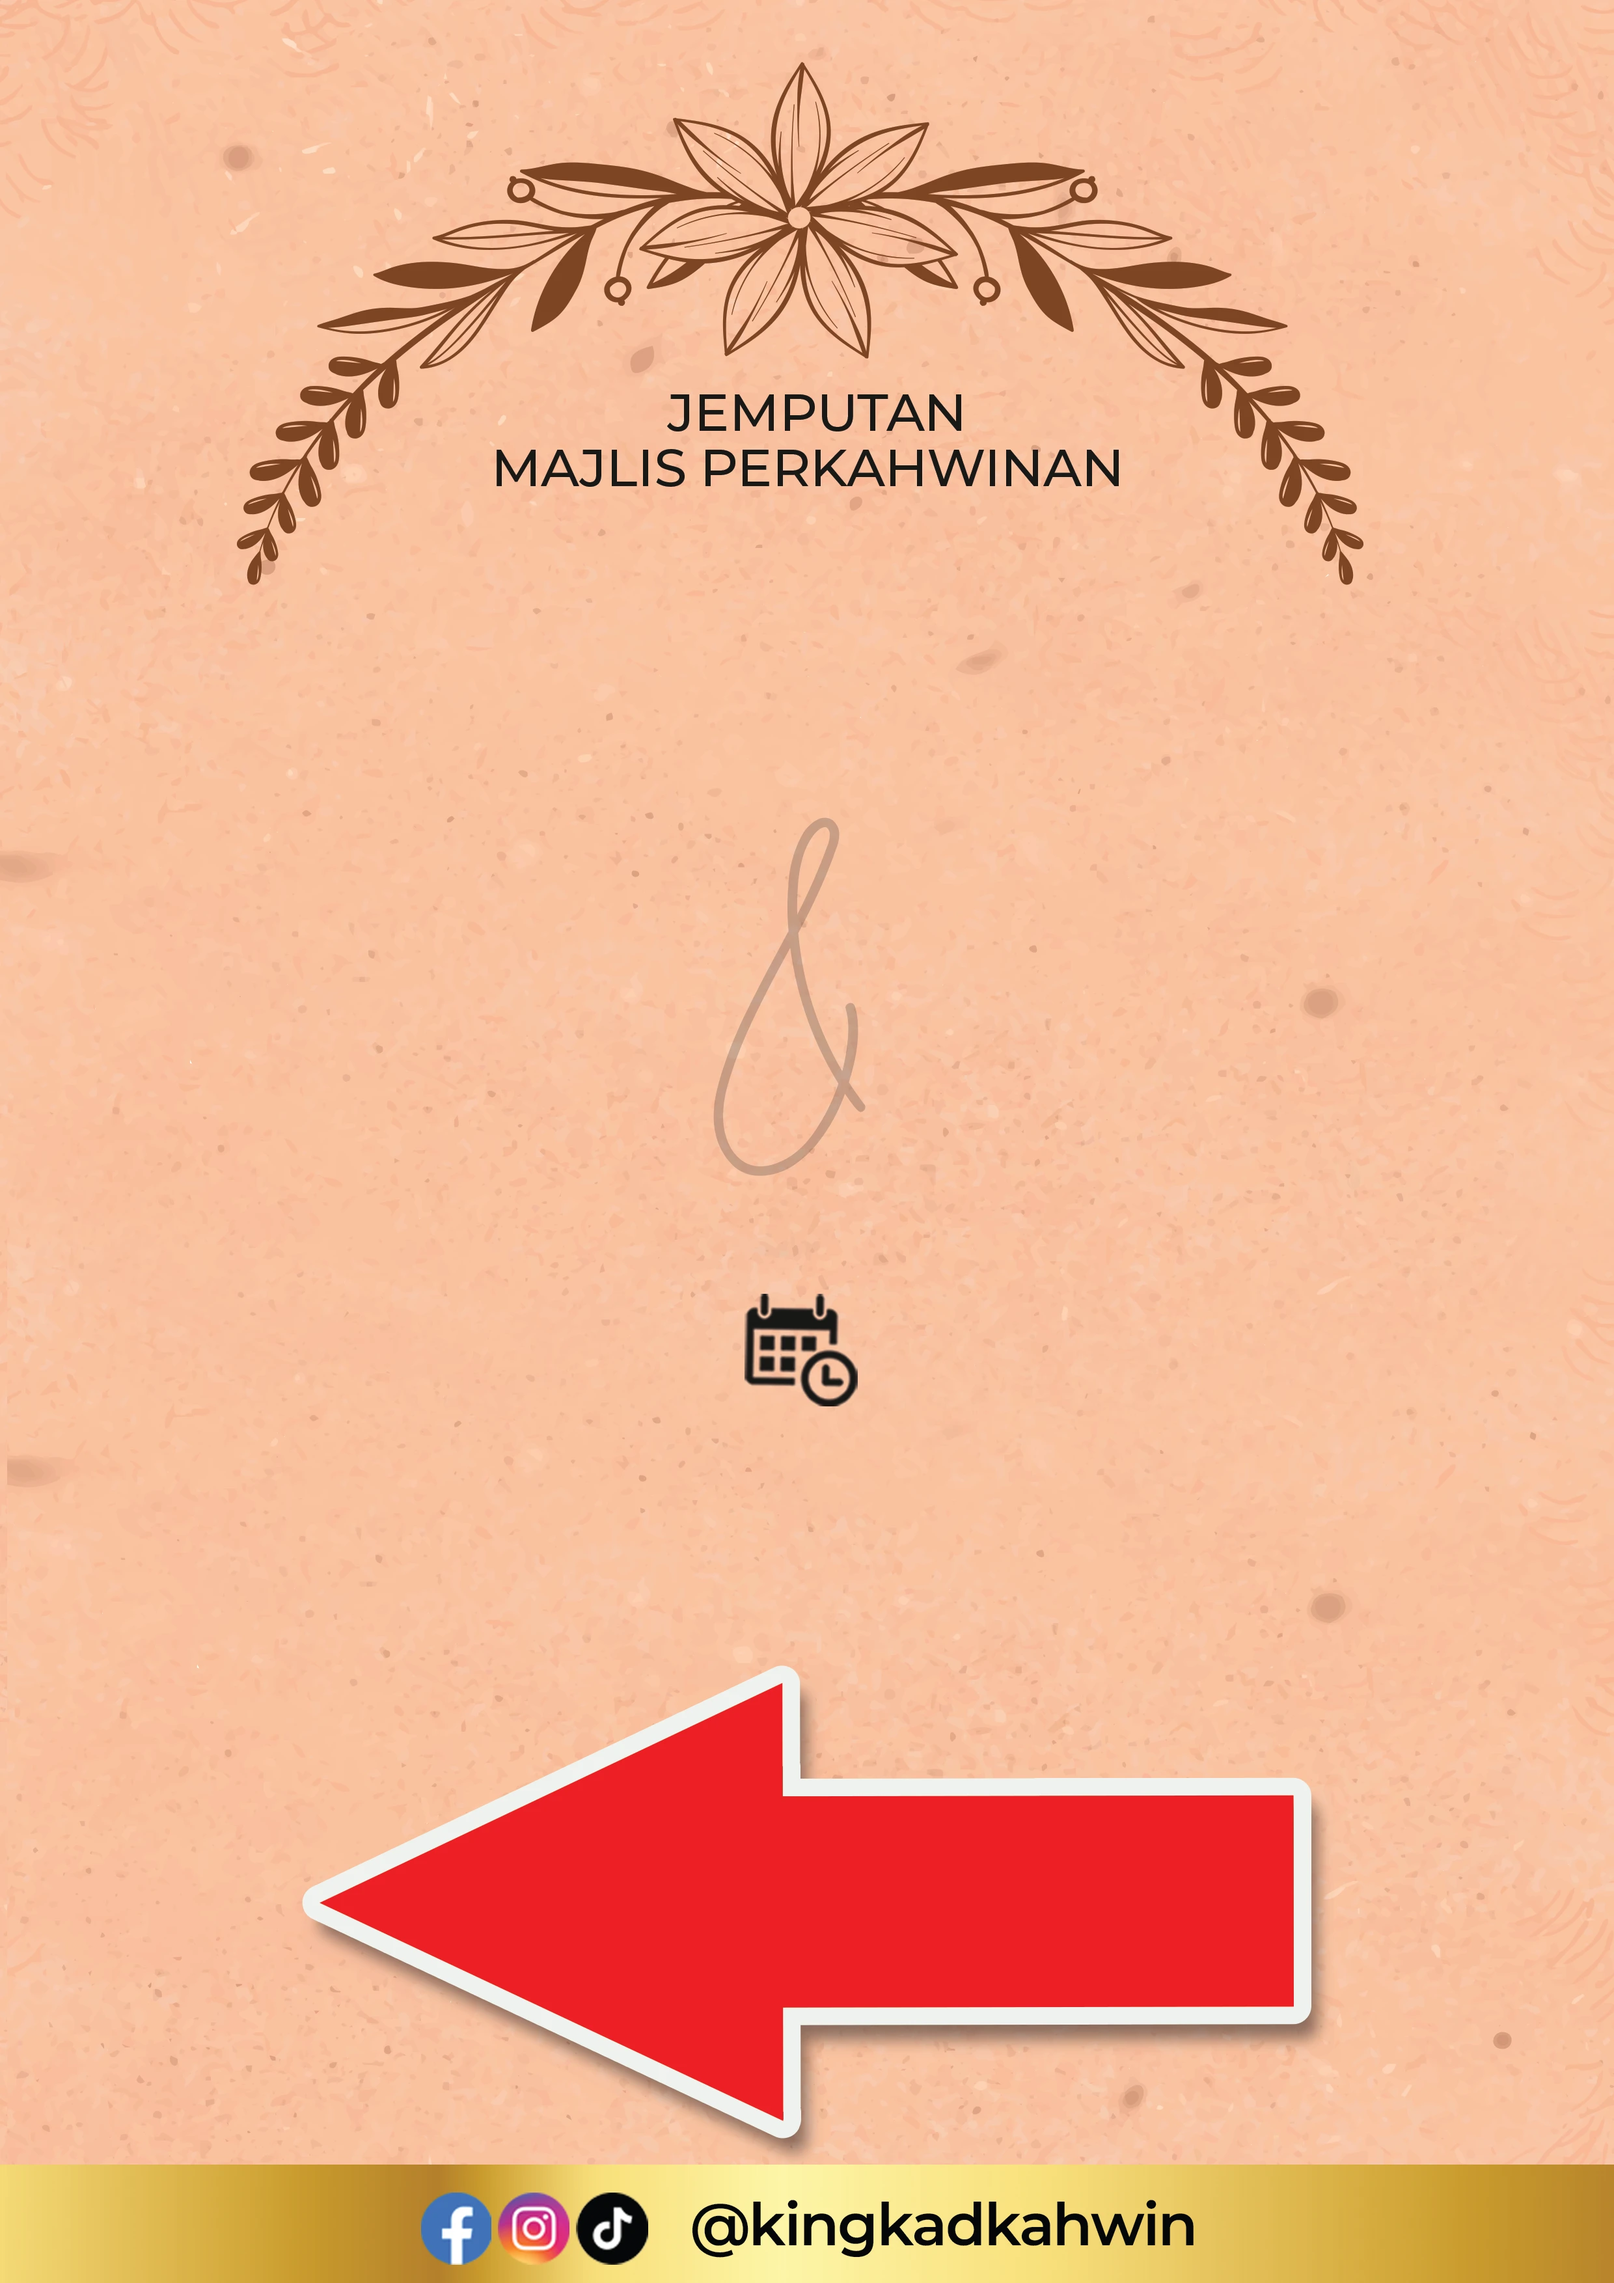
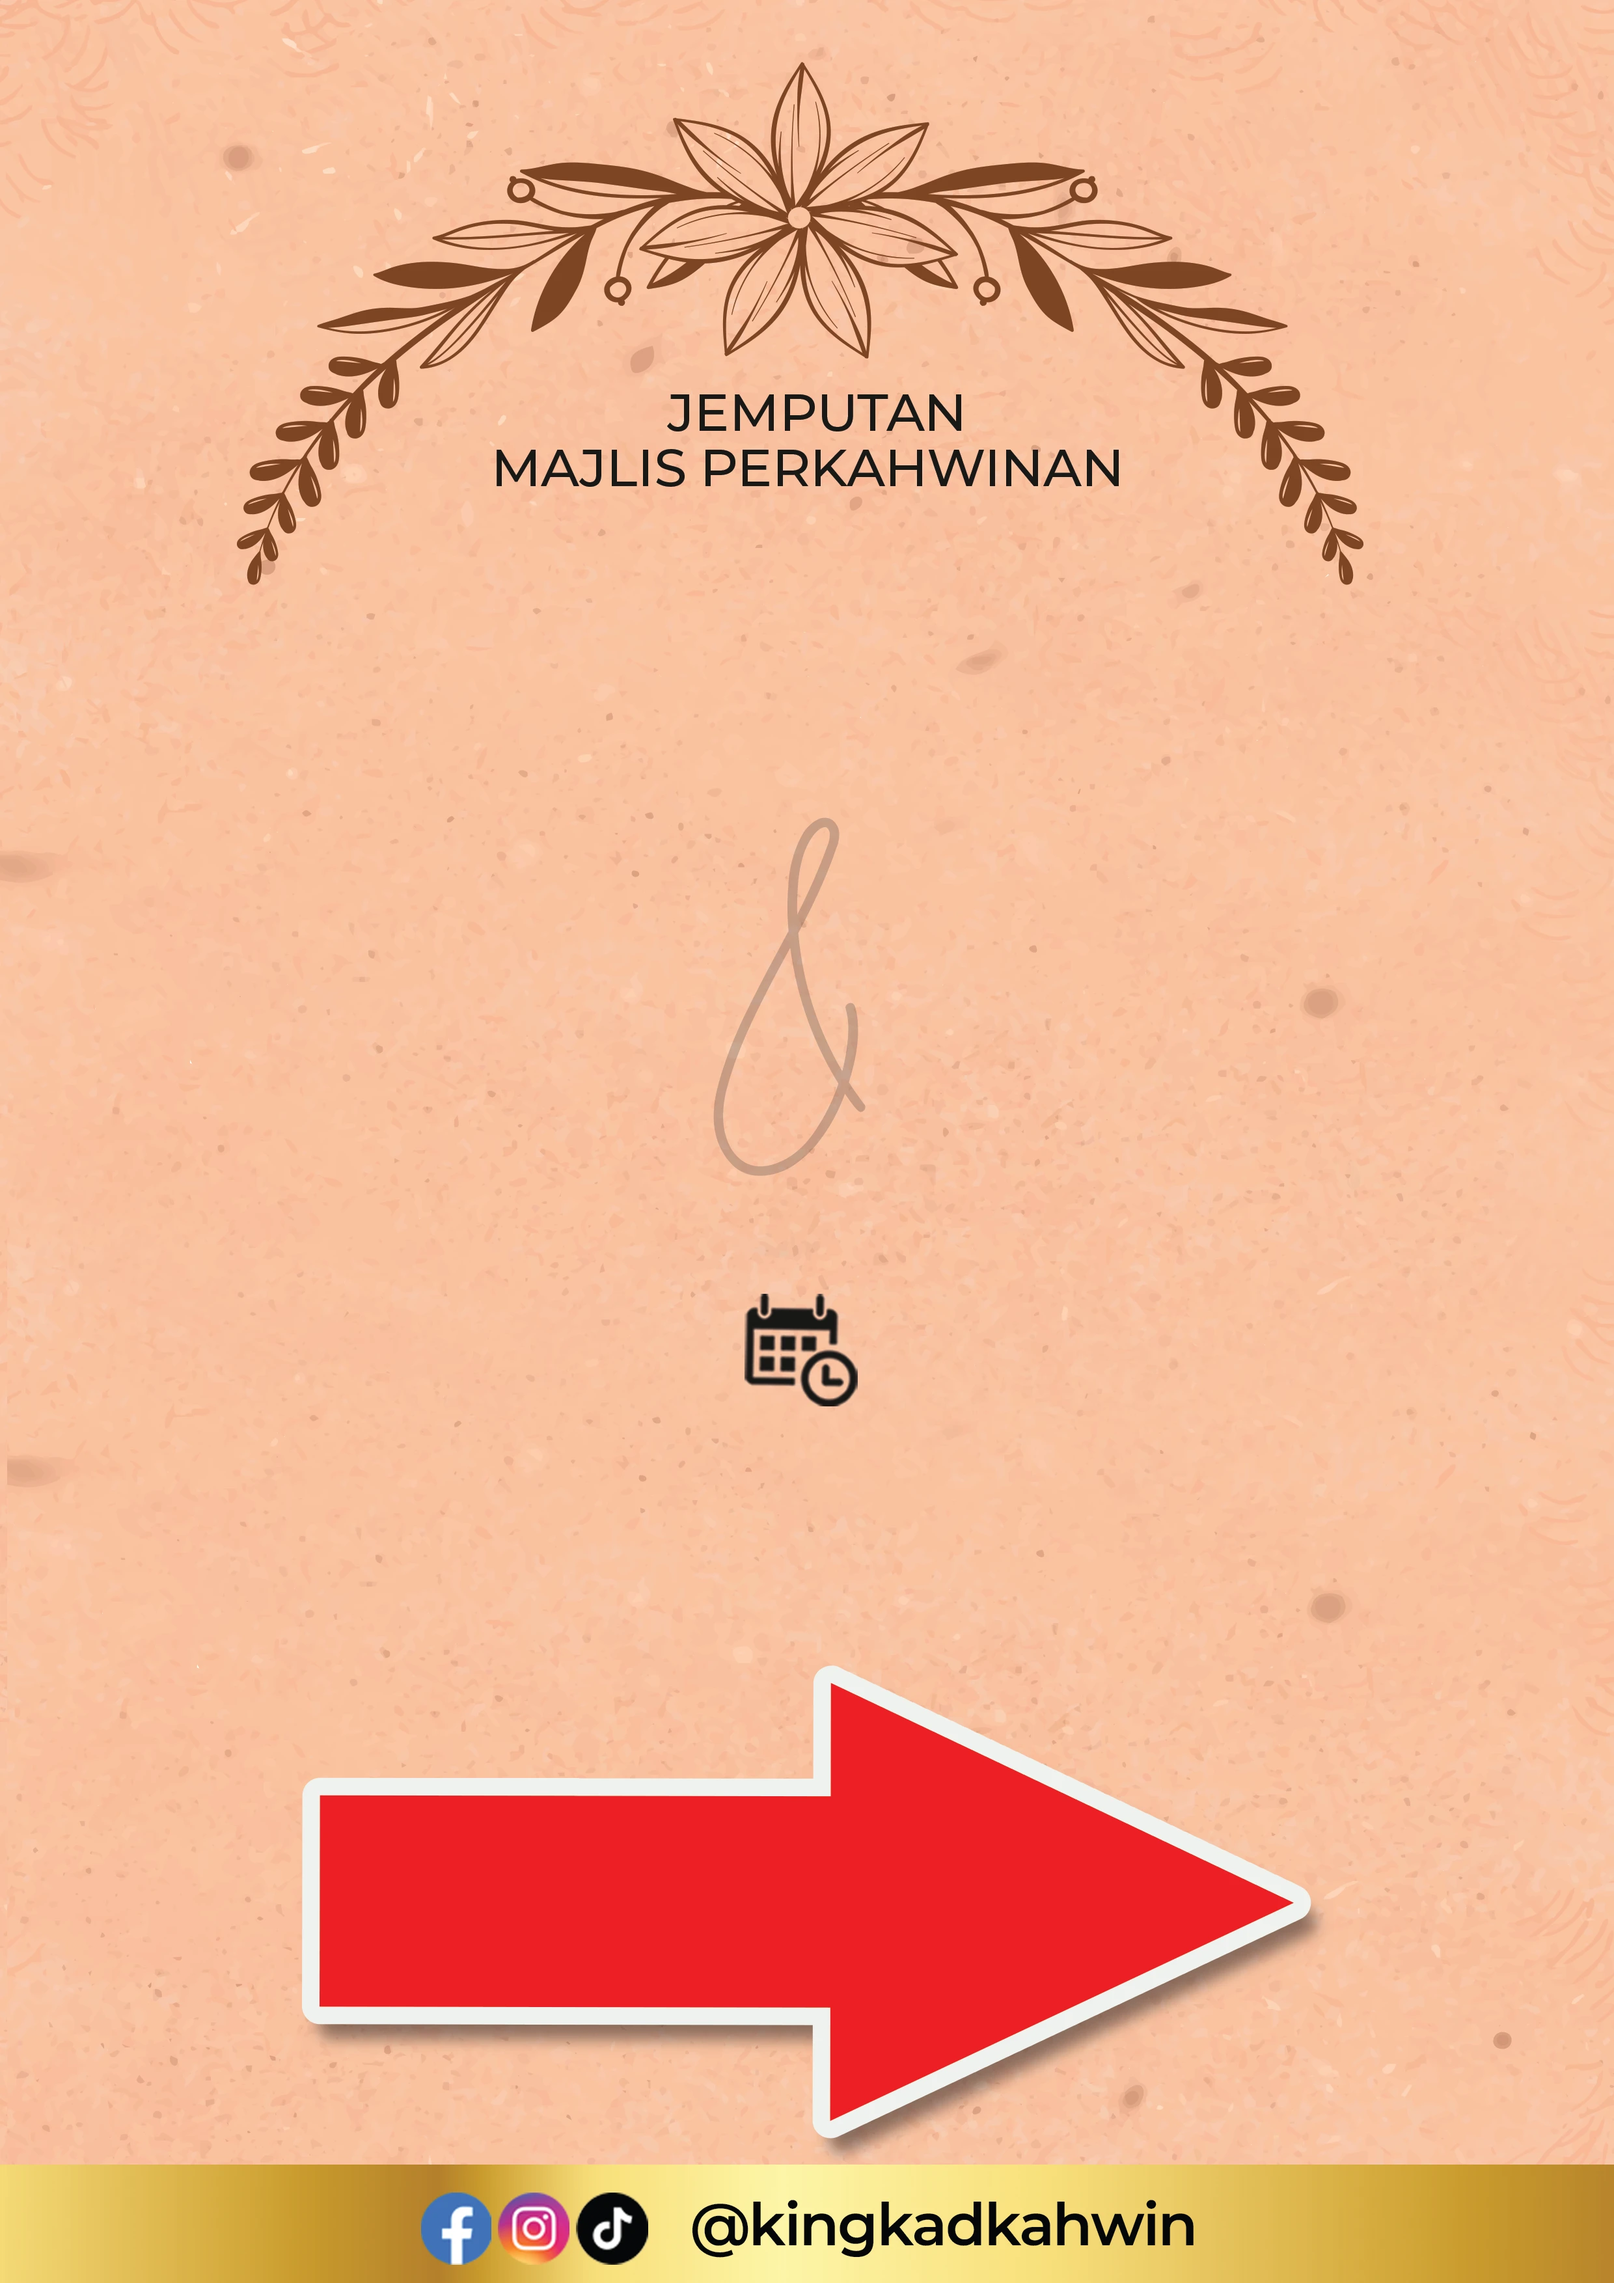
Correct Rusty CKR-003 right arrow preview

Changed region(s): [[0.1863, 0.7147, 0.8383, 0.9632]]

diff --git a/resources/views/orders/dashboard.blade.php b/resources/views/orders/dashboard.blade.php
@@ -1579,7 +1579,11 @@ document.addEventListener('DOMContentLoaded', function () {
 
         const artworkThemes = new Set(['akikah', 'arch', 'cartoon', 'desa', 'garden', 'islamic', 'minimalist', 'nostalgia', 'portrait', 'rusty', 'songket']);
         const artworkBase = @json(asset('images/designs'));
-        const artworkAssetVersion = @json((string) filemtime(public_path('css/customer-preview-layout.css')));
+        const artworkAssetVersion = @json((string) max(
+            filemtime(public_path('css/customer-preview-layout.css')),
+            filemtime(public_path('css/customer-rusty-layout.css')),
+            filemtime(public_path('images/designs/rusty/CKR-003/arrow-right.webp'))
+        ));
         const artworkDesignCodes = JSON.parse(form.dataset.designCodeOptions || '{}');
         const unavailableArtwork = {};
 
@@ -1641,7 +1645,7 @@ document.addEventListener('DOMContentLoaded', function () {
                 ornaments.forEach(function (ornament) {
                     ornament.hidden = hasArtwork;
                 });
-                const artworkVersion = theme === 'minimalist' ? '?v=' + artworkAssetVersion : '';
+                const artworkVersion = ['minimalist', 'rusty'].includes(theme) ? '?v=' + artworkAssetVersion : '';
                 syncArtworkImage(artwork, hasArtwork ? assetBase + 'card-front.webp' + artworkVersion : '', normalizedCode + ' ' + themeName + ' card front');
                 syncArtworkPhotoMask(front, hasArtwork && theme === 'portrait' ? assetBase + 'card-front-photo-mask.webp' : '');
             }
@@ -1659,7 +1663,7 @@ document.addEventListener('DOMContentLoaded', function () {
                 customNameCopy.hidden = false;
                 back.toggleAttribute('data-design-artwork', hasBackArtwork);
                 back.toggleAttribute('data-catalog-artwork', hasBackArtwork && isCatalogArtwork);
-                const artworkVersion = theme === 'minimalist' ? '?v=' + artworkAssetVersion : '';
+                const artworkVersion = ['minimalist', 'rusty'].includes(theme) ? '?v=' + artworkAssetVersion : '';
                 syncArtworkImage(artwork, hasBackArtwork ? assetBase + 'card-back.webp' + artworkVersion : '', normalizedCode + ' ' + themeName + ' card back');
             }
 
@@ -1690,7 +1694,7 @@ document.addEventListener('DOMContentLoaded', function () {
                 genericNameCopy.hidden = shouldShowArtwork;
                 productCustomNameCopy.hidden = !shouldShowArtwork;
                 placeholder.hidden = shouldShowArtwork || isUnavailable;
-                const artworkVersion = theme === 'minimalist'
+                const artworkVersion = ['minimalist', 'rusty'].includes(theme)
                     ? '?v=' + artworkAssetVersion
                     : (normalizedCode === 'CKS-209' && type === 'sticker'
                         ? '?v=7ea10273d5954369'
